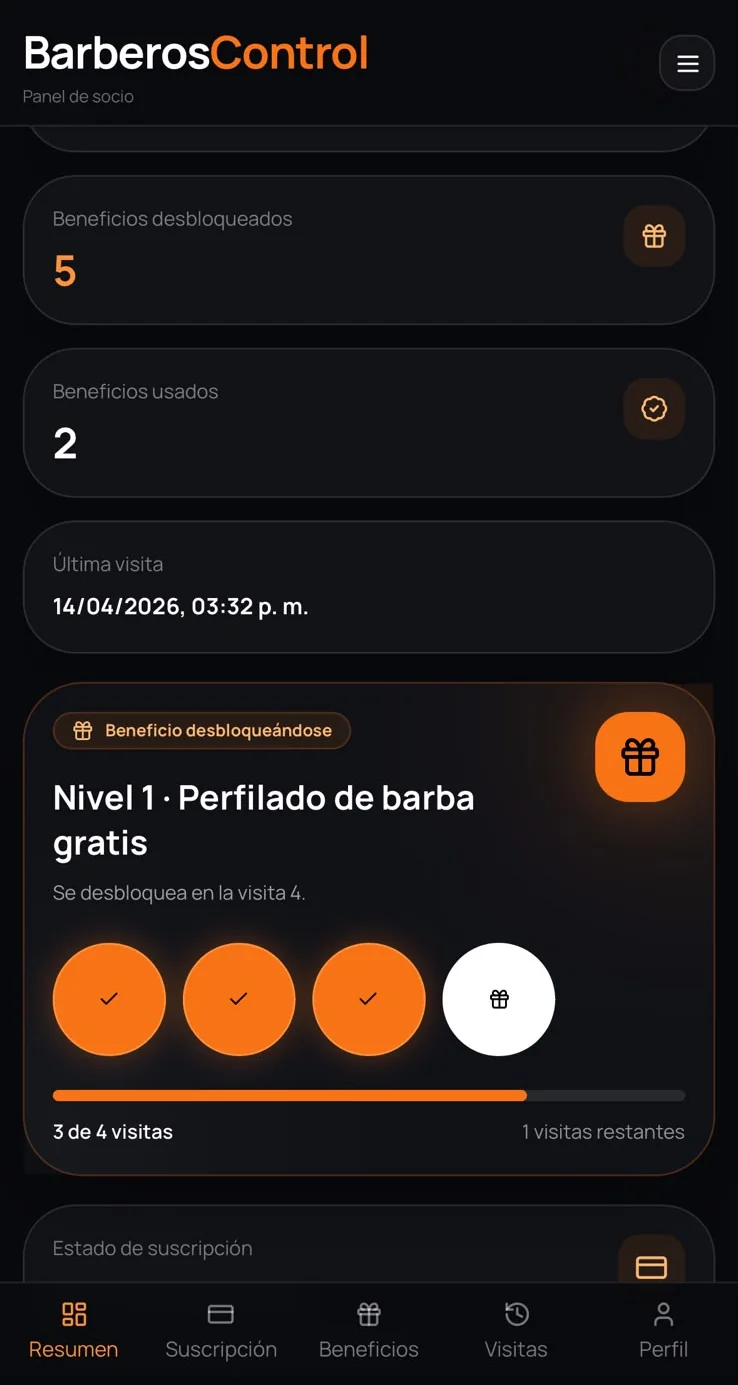
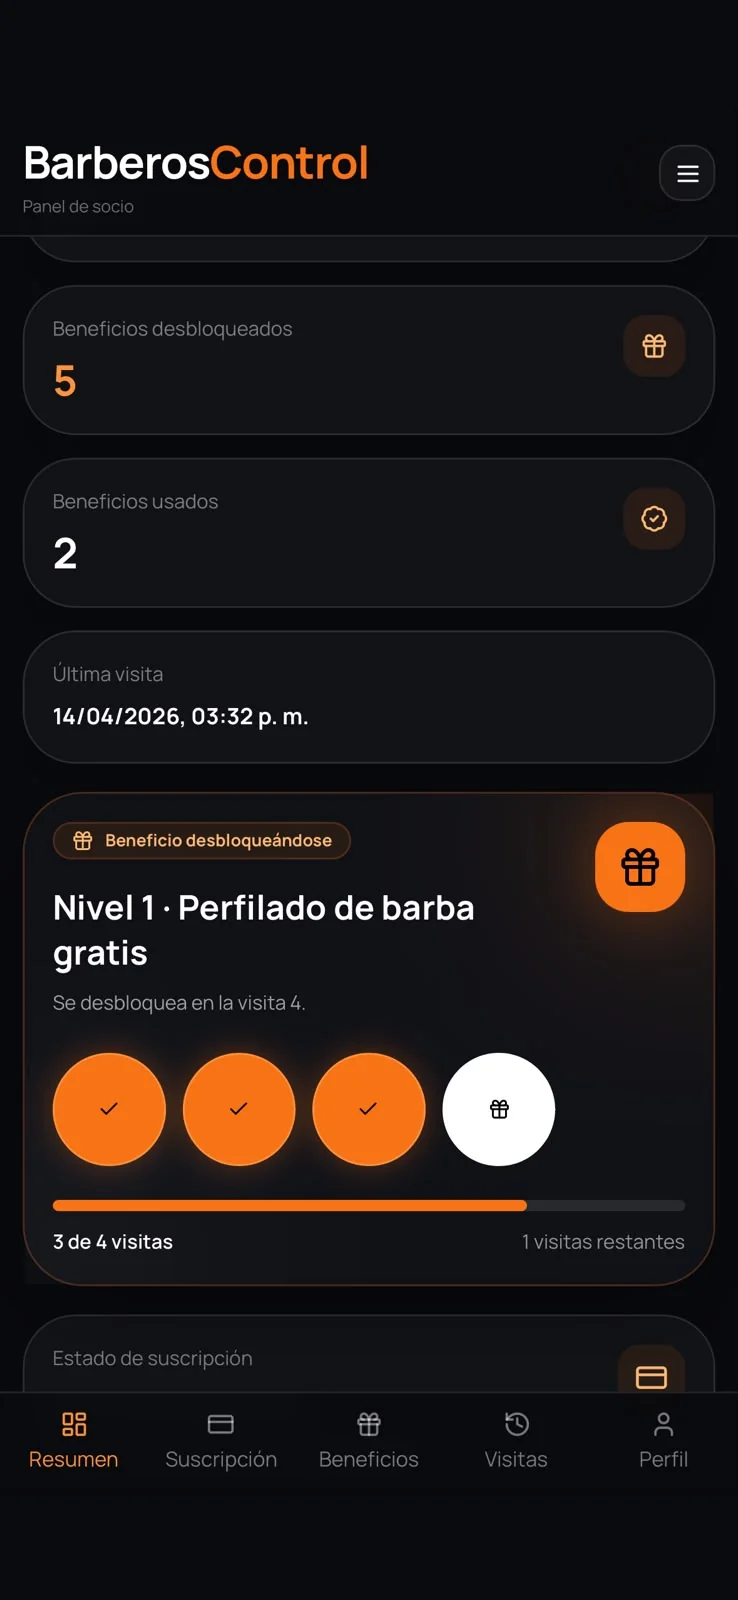
Usar agenda y reserva online en los mockups y que las capturas llenen la pantalla
La compu muestra la Agenda con la proporción de la captura, y los celulares
usan capturas del tamaño exacto del iPhone (sin recortes), así no quedan
bordes vacíos dentro del mockup.

diff --git a/index.html b/index.html
@@ -32,7 +32,7 @@
   <link rel="preconnect" href="https://fonts.gstatic.com" crossorigin>
   <link href="https://fonts.googleapis.com/css2?family=Manrope:wght@400;500;600;700;800&display=swap" rel="stylesheet">
   <link rel="stylesheet" href="assets/css/landing.css">
-  <style>.arrow-icon{display:inline-block;width:.85em;height:.85em;vertical-align:-.08em;flex-shrink:0}</style>
+  <style>.arrow-icon{display:inline-block;width:.85em;height:.85em;vertical-align:-.08em;flex-shrink:0}.desktop-device .device-screen{aspect-ratio:1650/862}.device-screen>img{object-fit:cover;object-position:left top}</style>
   <script src="assets/js/config.js" defer></script>
   <script src="assets/js/landing.js" defer></script>
   <script type="application/ld+json" id="structured-data">{"@context": "https://schema.org", "@graph": [{"@type": "Organization", "@id": "https://www.barberoscontrol.com/#organization", "name": "BarberosControl", "url": "https://www.barberoscontrol.com/", "logo": {"@type": "ImageObject", "url": "https://www.barberoscontrol.com/logo.png", "width": 1254, "height": 1254}, "sameAs": ["https://www.instagram.com/barberoscontrol/"]}, {"@type": "WebSite", "@id": "https://www.barberoscontrol.com/#website", "name": "BarberosControl", "url": "https://www.barberoscontrol.com/", "inLanguage": "es-AR", "publisher": {"@id": "https://www.barberoscontrol.com/#organization"}}, {"@type": "SoftwareApplication", "name": "BarberosControl", "applicationCategory": "BusinessApplication", "operatingSystem": "Web", "url": "https://www.barberoscontrol.com/", "description": "Software para barberías: turnos, servicios, caja y liquidaciones.", "publisher": {"@id": "https://www.barberoscontrol.com/#organization"}, "offers": [{"@type": "Offer", "name": "Básico", "price": "17000", "priceCurrency": "ARS", "url": "https://www.barberoscontrol.com/#precios"}, {"@type": "Offer", "name": "Premium", "price": "37000", "priceCurrency": "ARS", "url": "https://www.barberoscontrol.com/#precios"}, {"@type": "Offer", "name": "Salón Avanzado", "price": "48000", "priceCurrency": "ARS", "url": "https://www.barberoscontrol.com/#precios"}]}]}</script>
@@ -69,7 +69,7 @@
   </div>
 </section>
 <section class="proof-strip" aria-label="Barberías que usan BarberosControl"><div class="container proof-inner"><p>YA ES PARTE<br>DE SU DÍA A DÍA.</p><div class="client-logos"><img src="assets/images/bongio.webp" alt="Bongio Barber Studio" width="150" height="65" loading="lazy"><img src="assets/images/estilof.webp" alt="Estilo F Peluqueros" width="150" height="65" loading="lazy"><img src="assets/images/fenix.webp" alt="Fénix Barberos" width="150" height="65" loading="lazy"><img src="assets/images/tril3x.webp" alt="Tril3x Barbers" width="150" height="65" loading="lazy"></div></div></section>
-<section class="growth-section" id="clientes"><div class="container growth-layout"><div class="growth-copy"><p class="eyebrow">MÁS CERCA DE TUS CLIENTES</p><h2>Tu agenda organizada.<br><span>Tus clientes, conectados.</span></h2><p>Cinco herramientas para acompañar a tus clientes antes, durante y después de cada visita.</p><ul class="growth-features"><li><span aria-hidden="true">✓</span><div><h3>Agenda online</h3><p>Tus clientes eligen su turno y vos organizás el día de tu equipo.</p></div></li><li><span aria-hidden="true">✓</span><div><h3>Recordatorios automáticos</h3><p>Mantené presente la próxima visita con avisos de sus turnos.</p></div></li><li><span aria-hidden="true">✓</span><div><h3>CRM de clientes</h3><p>Datos e historial en un mismo lugar para conocer a quien vuelve.</p></div></li><li><span aria-hidden="true">✓</span><div><h3>Fidelización y beneficios</h3><p>Gestioná membresías y beneficios para tus clientes con BarberClub.</p></div></li><li><span aria-hidden="true">✓</span><div><h3>Panel propio para tus clientes</h3><p>Un espacio personal para consultar sus turnos y beneficios.</p></div></li></ul><a class="text-link" href="#precios">Conocé los planes <span aria-hidden="true"><svg class="arrow-icon" viewBox="0 0 16 16" fill="none" stroke="currentColor" stroke-width="1.8" stroke-linecap="round" stroke-linejoin="round" aria-hidden="true" focusable="false"><path d="M4.5 11.5l7-7M5.5 4.5h6v6"/></svg></span></a></div><div class="devices-stage" aria-label="Capturas de BarberosControl en computadora y celular"><figure class="device desktop-device"><div class="device-camera"></div><div class="device-screen" data-screenshot="desktop"><div class="screenshot-slot"><span class="slot-symbol" aria-hidden="true">▧</span><strong>Dashboard de tu barbería</strong><span>Espacio para tu captura de computadora</span><small>16:10 · 1600 × 1000 px</small></div></div><div class="desktop-chin"></div><figcaption>EL CONTROL DE TU BARBERÍA</figcaption></figure><figure class="device phone-device phone-booking"><div class="phone-notch"></div><div class="device-screen" data-screenshot="booking"><div class="screenshot-slot"><span class="slot-symbol" aria-hidden="true">▧</span><strong>Tu panel en el celular</strong><span>Tu captura de celular</span><small>9:19.5</small></div></div><figcaption>TU BARBERÍA EN EL BOLSILLO</figcaption></figure><figure class="device phone-device phone-client"><div class="phone-notch"></div><div class="device-screen" data-screenshot="client"><div class="screenshot-slot"><span class="slot-symbol" aria-hidden="true">▧</span><strong>Panel del cliente</strong><span>Tu captura de celular</span><small>9:19.5</small></div></div><figcaption>SUS BENEFICIOS</figcaption></figure></div></div></section>
+<section class="growth-section" id="clientes"><div class="container growth-layout"><div class="growth-copy"><p class="eyebrow">MÁS CERCA DE TUS CLIENTES</p><h2>Tu agenda organizada.<br><span>Tus clientes, conectados.</span></h2><p>Cinco herramientas para acompañar a tus clientes antes, durante y después de cada visita.</p><ul class="growth-features"><li><span aria-hidden="true">✓</span><div><h3>Agenda online</h3><p>Tus clientes eligen su turno y vos organizás el día de tu equipo.</p></div></li><li><span aria-hidden="true">✓</span><div><h3>Recordatorios automáticos</h3><p>Mantené presente la próxima visita con avisos de sus turnos.</p></div></li><li><span aria-hidden="true">✓</span><div><h3>CRM de clientes</h3><p>Datos e historial en un mismo lugar para conocer a quien vuelve.</p></div></li><li><span aria-hidden="true">✓</span><div><h3>Fidelización y beneficios</h3><p>Gestioná membresías y beneficios para tus clientes con BarberClub.</p></div></li><li><span aria-hidden="true">✓</span><div><h3>Panel propio para tus clientes</h3><p>Un espacio personal para consultar sus turnos y beneficios.</p></div></li></ul><a class="text-link" href="#precios">Conocé los planes <span aria-hidden="true"><svg class="arrow-icon" viewBox="0 0 16 16" fill="none" stroke="currentColor" stroke-width="1.8" stroke-linecap="round" stroke-linejoin="round" aria-hidden="true" focusable="false"><path d="M4.5 11.5l7-7M5.5 4.5h6v6"/></svg></span></a></div><div class="devices-stage" aria-label="Capturas de BarberosControl en computadora y celular"><figure class="device desktop-device"><div class="device-camera"></div><div class="device-screen" data-screenshot="desktop"><div class="screenshot-slot"><span class="slot-symbol" aria-hidden="true">▧</span><strong>Agenda de tu equipo</strong><span>Espacio para tu captura de computadora</span><small>16:10 · 1600 × 1000 px</small></div></div><div class="desktop-chin"></div><figcaption>EL CONTROL DE TU BARBERÍA</figcaption></figure><figure class="device phone-device phone-booking"><div class="phone-notch"></div><div class="device-screen" data-screenshot="booking"><div class="screenshot-slot"><span class="slot-symbol" aria-hidden="true">▧</span><strong>Reservas online</strong><span>Tu captura de celular</span><small>9:19.5</small></div></div><figcaption>SU PRÓXIMO TURNO</figcaption></figure><figure class="device phone-device phone-client"><div class="phone-notch"></div><div class="device-screen" data-screenshot="client"><div class="screenshot-slot"><span class="slot-symbol" aria-hidden="true">▧</span><strong>Panel del cliente</strong><span>Tu captura de celular</span><small>9:19.5</small></div></div><figcaption>SUS BENEFICIOS</figcaption></figure></div></div></section>
 <section class="section faq-section container" id="faq"><div><p class="eyebrow">ANTES DE EMPEZAR</p><h2>Las dudas,<br><span>resueltas.</span></h2><a class="text-link" href="https://wa.me/5492914675931" target="_blank" rel="noopener noreferrer">Preguntanos por WhatsApp <svg class="arrow-icon" viewBox="0 0 16 16" fill="none" stroke="currentColor" stroke-width="1.8" stroke-linecap="round" stroke-linejoin="round" aria-hidden="true" focusable="false"><path d="M4.5 11.5l7-7M5.5 4.5h6v6"/></svg></a></div><div class="faq-list"><details><summary>¿Necesito instalar algo?<span aria-hidden="true">+</span></summary><p>No. BarberosControl funciona desde el navegador de tu computadora, tablet o celular. Necesitás conexión a internet.</p></details><details><summary>¿Cómo funciona la prueba?<span aria-hidden="true">+</span></summary><p>Podés probar el sistema durante 30 días con el código PRUEBAMES. Creá tu cuenta y usalo al activar tu prueba. Si necesitás ayuda, escribinos por WhatsApp.</p></details><details><summary>¿Puedo cancelar cuando quiera?<span aria-hidden="true">+</span></summary><p>Sí. Podés cancelar tu suscripción desde tu cuenta. La cancelación se aplica al finalizar el período vigente.</p></details><details><summary>¿Me sirve si tengo más de una sucursal?<span aria-hidden="true">+</span></summary><p>Sí. El plan Salón Avanzado incluye múltiples sucursales y usuarios con permisos por rol. Podés cambiar de sucursal desde el sistema.</p></details><details><summary>¿Me ayudan a empezar?<span aria-hidden="true">+</span></summary><p>Sí. Podés contactarnos por WhatsApp para resolver dudas y recibir ayuda con la configuración. Si ya tenés una base de clientes, consultanos cómo trasladarla.</p></details></div></section>
 <section class="final-section"><div class="container final-inner"><p class="eyebrow">TU PRÓXIMO PASO</p><h2>El próximo corte,<br><span>con todo en orden.</span></h2><a class="button" href="https://app.barberoscontrol.com/register" data-cta="final">Crear mi cuenta <span aria-hidden="true"><svg class="arrow-icon" viewBox="0 0 16 16" fill="none" stroke="currentColor" stroke-width="1.8" stroke-linecap="round" stroke-linejoin="round" aria-hidden="true" focusable="false"><path d="M4.5 11.5l7-7M5.5 4.5h6v6"/></svg></span></a><p>Tu barbería. Tu equipo. Tus números.</p></div></section>
 </main>

diff --git a/assets/js/config.js b/assets/js/config.js
@@ -4,8 +4,8 @@
    No video, caption or testimonial is invented by the landing. */
 window.BC_LANDING = {
   screenshots: {
-    desktop: { src: "assets/images/capturas/dashboard.webp", alt: "Dashboard de BarberosControl en computadora: servicios e ingresos del día y del mes" },
-    booking: { src: "assets/images/capturas/panel-celular.webp", alt: "Menú del panel de gestión de BarberosControl en el celular" },
+    desktop: { src: "assets/images/capturas/agenda.webp", alt: "Agenda de BarberosControl en computadora con los turnos del día de cada barbero" },
+    booking: { src: "assets/images/capturas/reserva.webp", alt: "Reserva online confirmada desde el celular del cliente" },
     client: { src: "assets/images/capturas/panel-socio.webp", alt: "Panel del socio en el celular con sus beneficios y visitas" }
   },
   video: {
